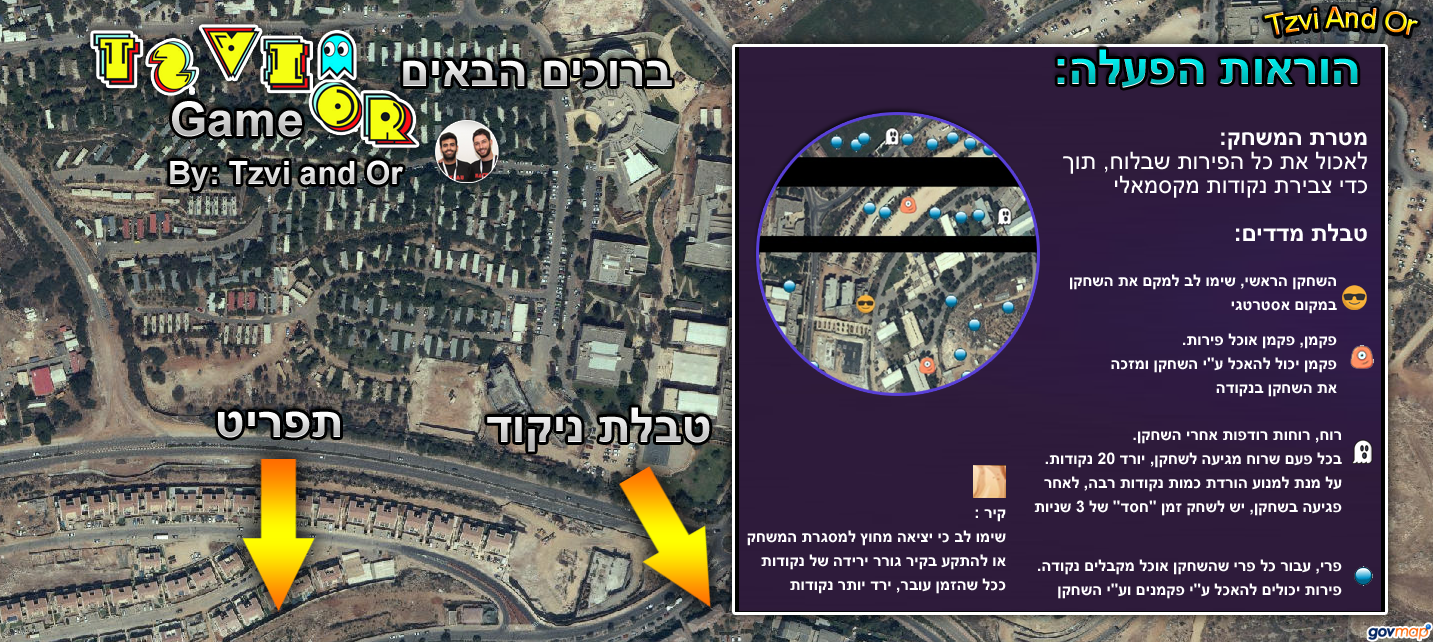
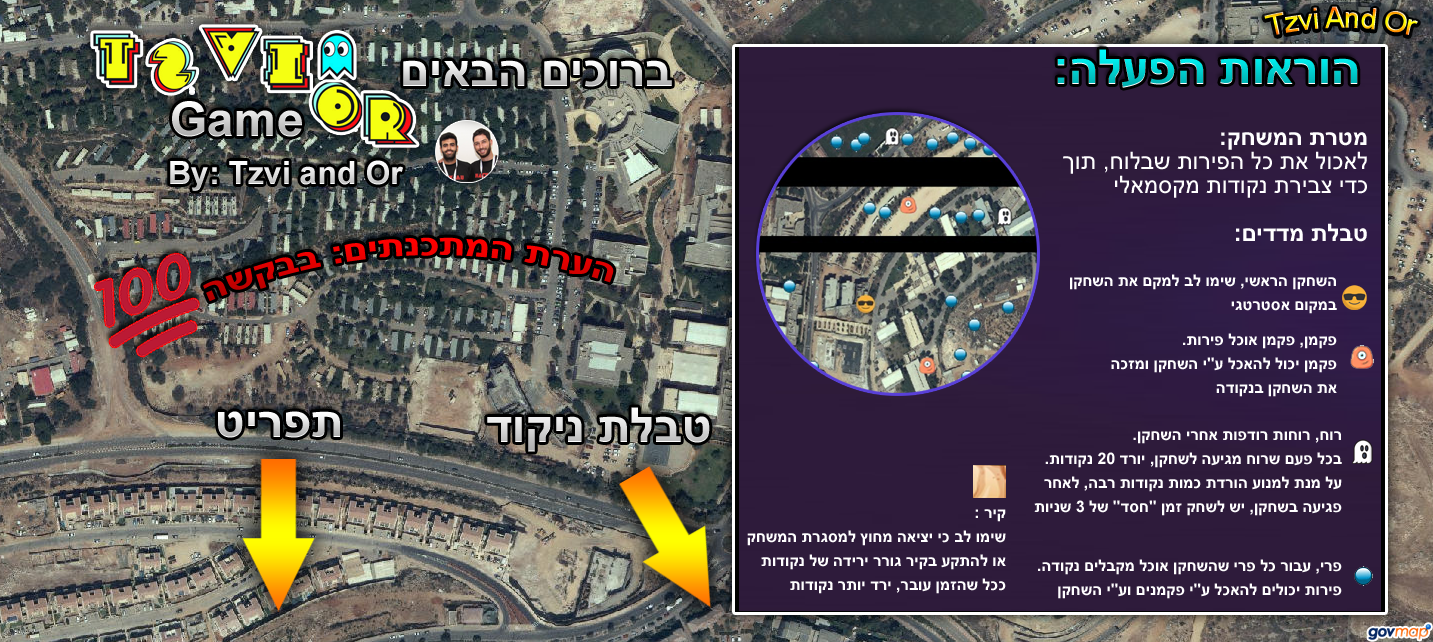
Added please 100

Changed region(s): [[0.0614, 0.3427, 0.4299, 0.5607]]

diff --git a/src/myFrame/GamePanel.java b/src/myFrame/GamePanel.java
@@ -195,21 +195,21 @@ public class GamePanel extends JPanel implements MouseListener{
 			play.setInitLocation(player.getP().x(),player.getP().y());
 			GameMode = true;
 			play.start();
-			_thread = new Animate(this);
+			_thread = new Animate(this,player);
 			_thread.start();
 			Thread _timer = new Thread(){
 				public void run(){
 					while(true)
 					{
+						try {
+							sleep(2);
+						} catch (InterruptedException e) {
+							e.printStackTrace();
+						}
 						int start_index = play.getStatistics().indexOf(" Time left") + 11;
 						int end_index = play.getStatistics().indexOf(" kill") - 1;
 						double time = Double.parseDouble(play.getStatistics().substring(start_index, end_index));
 						if(time == 0.0 ) break;
-						try {
-							sleep(1);
-						} catch (InterruptedException e) {
-							e.printStackTrace();
-						}
 					}
 					if(GameMode == true)
 					{
@@ -250,6 +250,8 @@ public class GamePanel extends JPanel implements MouseListener{
 		else 
 		{
 			player.InDanger = true;
+			play.rotate(0);
+			play.rotate(180);
 		}
 		repaint();
 		Score.updateScore(play.getStatistics());

diff --git a/src/Player/Animate.java b/src/Player/Animate.java
@@ -1,12 +1,16 @@
 package Player;
+import javax.swing.JOptionPane;
+
 import myFrame.GamePanel;
 import myFrame.Menu;
 
 public class Animate extends Thread {
 	private GamePanel g;
-	public Animate(GamePanel g)
+	private Player player;
+	public Animate(GamePanel g, Player player)
 	{
 		this.g = g;
+		this.player = player;
 	}
 	@Override
 	public void run() {
@@ -14,11 +18,12 @@ public class Animate extends Thread {
 		{
 			try { Thread.sleep(50);} // The animation wont run too fast				 
 			catch (InterruptedException e) {} 
-			g.update();
-				
+			if(player.ang <= 360)
+				g.update();	
 		}
 		g.GameMode = false;
 		g.play.stop();
 		Menu.SetVisableTrue();
+		JOptionPane.showMessageDialog(null, "Whooho!\nAll Fruits have Eaten!");
 	}
 }

diff --git a/src/Player/Player.java b/src/Player/Player.java
@@ -18,7 +18,7 @@ public class Player {
 	private Point3D _p; // In [Lat,Lon,Alt]
 	private String _id;
 	private Image PlayerImage = Toolkit.getDefaultToolkit().getImage("./img/Player.png"); // Player image
-	public double ang = 30;
+	public double ang = 361;
 	public boolean InDanger = false;
 	/* * * * * * * * * * * * * *  Constructor * * * * * * * * * * * * * * * */
 	public Player(Point3D p, String id)
